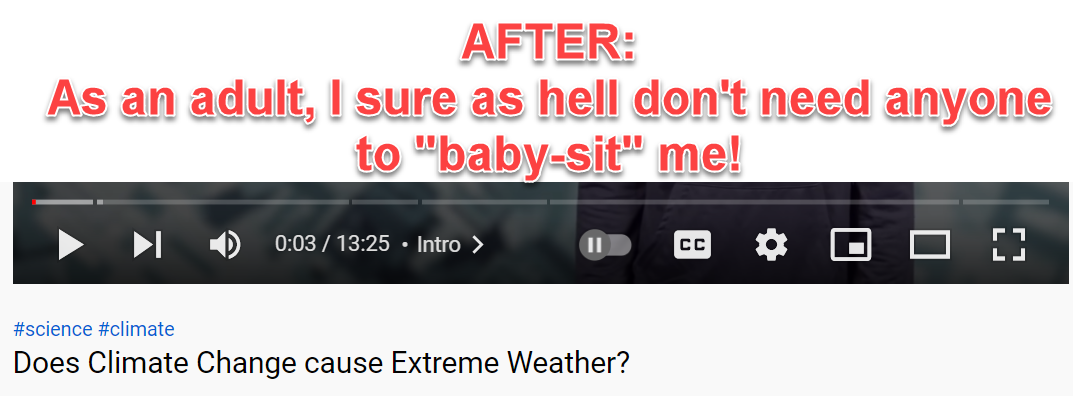
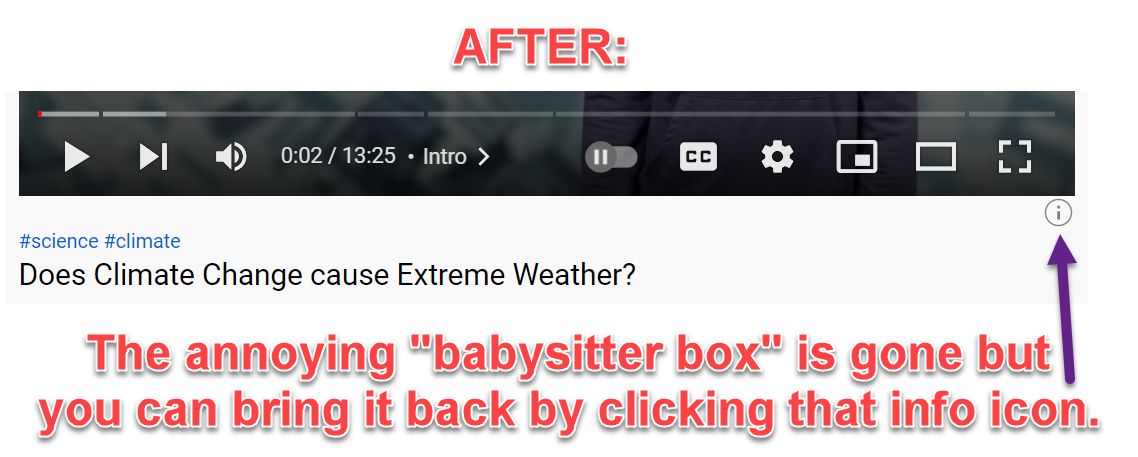
Add the ability to toggle a 'babysitter box' on and off.

diff --git a/myscript_A.js b/myscript_A.js
@@ -1,23 +1,8 @@
 $( document ).ready(function() {
-    var labelElement,
-        clarifyBox;
-
-    function removeNuisance() {
-        labelElement = $('#top-level-buttons-computed yt-formatted-string');
-        clarifyBox = $('#clarify-box');
-        // clarity box example: youtube.com/watch?v=KqNHdY90StU
-
-        labelElement.each(function (index) {
-            // index 0 label is the likes counter, we want to show it
-            if (index > 0 && labelElement.is(':visible')) {
-                $(this).hide();
-            }
-        });
-
-        if (clarifyBox.is(':visible')) {
-            clarifyBox.hide();
-        }
-    }
+    let labelElement,
+        clarifyBox,
+        clarifyBoxBtn,
+        clarifyBoxBtnId;
 
     // Select the node that will be observed for mutations
     const targetBodyNode = $('body')[0];
@@ -25,12 +10,63 @@ $( document ).ready(function() {
     // Options for the observer (which mutations to observe)
     const config = { attributes: false, childList: true, subtree: true };
 
+    function removeLabelsAndButton() {
+        // Hide all labels except the first one because the first one is the likes counter
+        labelElement.each(function (index) {
+            if (index > 0 && labelElement.is(':visible')) {
+                $(this).hide();
+            }
+        });
+
+        if (clarifyBox.is(":empty") && clarifyBoxBtnId.length) {
+            // If the clarifyBox is EMPTY and our clarifyBoxBtn is there,
+            // the user must have loaded a NEW video with empty clarifyBox.
+            clarifyBoxBtnId.remove();
+        }
+    }
+
+    function handleClarityBox() {
+        // clarity box example: youtube.com/watch?v=KqNHdY90StU
+        if (!clarifyBox.is(":empty") && !clarifyBoxBtnId.length) {
+            clarifyBoxBtn.insertBefore(clarifyBox);
+            clarifyBox.hide();
+
+            clarifyBoxBtn.click(function () {
+                $(this).toggleClass("ytnr-adjust-bottom-margin");
+                clarifyBox.toggle("slow");
+            });
+        } else if (clarifyBox.is(':visible')) {
+            clarifyBox.hide();
+
+            clarifyBoxBtn.click(function () {
+                $(this).toggleClass("ytnr-adjust-bottom-margin");
+                clarifyBox.toggle("slow");
+            });
+        }
+    }
+
     // Callback function to execute when mutations are observed
     const callback = function(mutationsList, observer) {
+        labelElement = $('#top-level-buttons-computed yt-formatted-string');
+        clarifyBox = $('#clarify-box');
+        clarifyBoxBtn = $(`<div id="ytnr-cbox-toggler" style="height: 20px; display: flex; justify-content: flex-end; fill: gray; margin-bottom: -20px;"><svg viewBox="0 0 24 24" preserveAspectRatio="xMidYMid meet" focusable="false" class="style-scope yt-icon" style="display: block; width: 20px; height: 100%;"><g class="style-scope yt-icon"><path d="M13,17h-2v-6h2V17z M13,7h-2v2h2V7z M12,3c-4.96,0-9,4.04-9,9s4.04,9,9,9c4.96,0,9-4.04,9-9S16.96,3,12,3 M12,2 c5.52,0,10,4.48,10,10s-4.48,10-10,10C6.48,22,2,17.52,2,12S6.48,2,12,2L12,2z" class="style-scope yt-icon"></path></g></svg></div>`);
+        clarifyBoxBtnId = $("#ytnr-cbox-toggler");
+
         // Use traditional 'for loops' for IE 11
         for(const mutation of mutationsList) {
-            if (mutation.type === 'childList') {
-                removeNuisance();
+            //console.log(`mutation.target.id: ${mutation.target.id}`);
+            if (mutation.target.id === 'container'
+                || mutation.target.id === 'info-contents'
+                || mutation.target.id === 'contents'
+                || mutation.target.id === 'content'
+            ) {
+                // We have changes inside container with the button labels
+                removeLabelsAndButton();
+            }
+
+            if (mutation.target.id === 'clarify-box') {
+                // We have changes inside 'clarify-box'
+                handleClarityBox();
             }
         }
     };

diff --git a/mystyles_A.css b/mystyles_A.css
@@ -8,3 +8,14 @@ and with that left margin they still obstruct the video release date.
 .ytd-menu-renderer:not([condensed]) .ytd-menu-renderer[button-renderer]+.ytd-menu-renderer[button-renderer], .ytd-menu-renderer[button-renderer]+template.ytd-menu-renderer+#button.ytd-menu-renderer, #flexible-item-buttons.ytd-menu-renderer:not(:empty)>.ytd-menu-renderer[button-renderer], #top-level-buttons-computed.ytd-menu-renderer:not(:empty)+#flexible-item-buttons.ytd-menu-renderer+#button.ytd-menu-renderer {
     margin-left: 0 !important;
 }
+
+/*
+Normally, we have a negative bottom margin
+on the #ytnr-info-btn button (to avoid wasting space).
+But when the user clicks the button to show the nuisance box,
+we need to set the bottom margin back to zero
+because otherwise the button would disappear.
+*/
+.ytnr-adjust-bottom-margin {
+    margin-bottom: 0 !important;
+}

diff --git a/README.md b/README.md
@@ -18,7 +18,7 @@ Here's what it does:
 
 ![YouTube clarity box before](./resources/yt-clarify-box-before.png)
 
-![YouTube clarity box before](./resources/yt-clarify-box-after.png)
+![YouTube clarity box after](./resources/yt-clarify-box-after.png)
 
 
 
